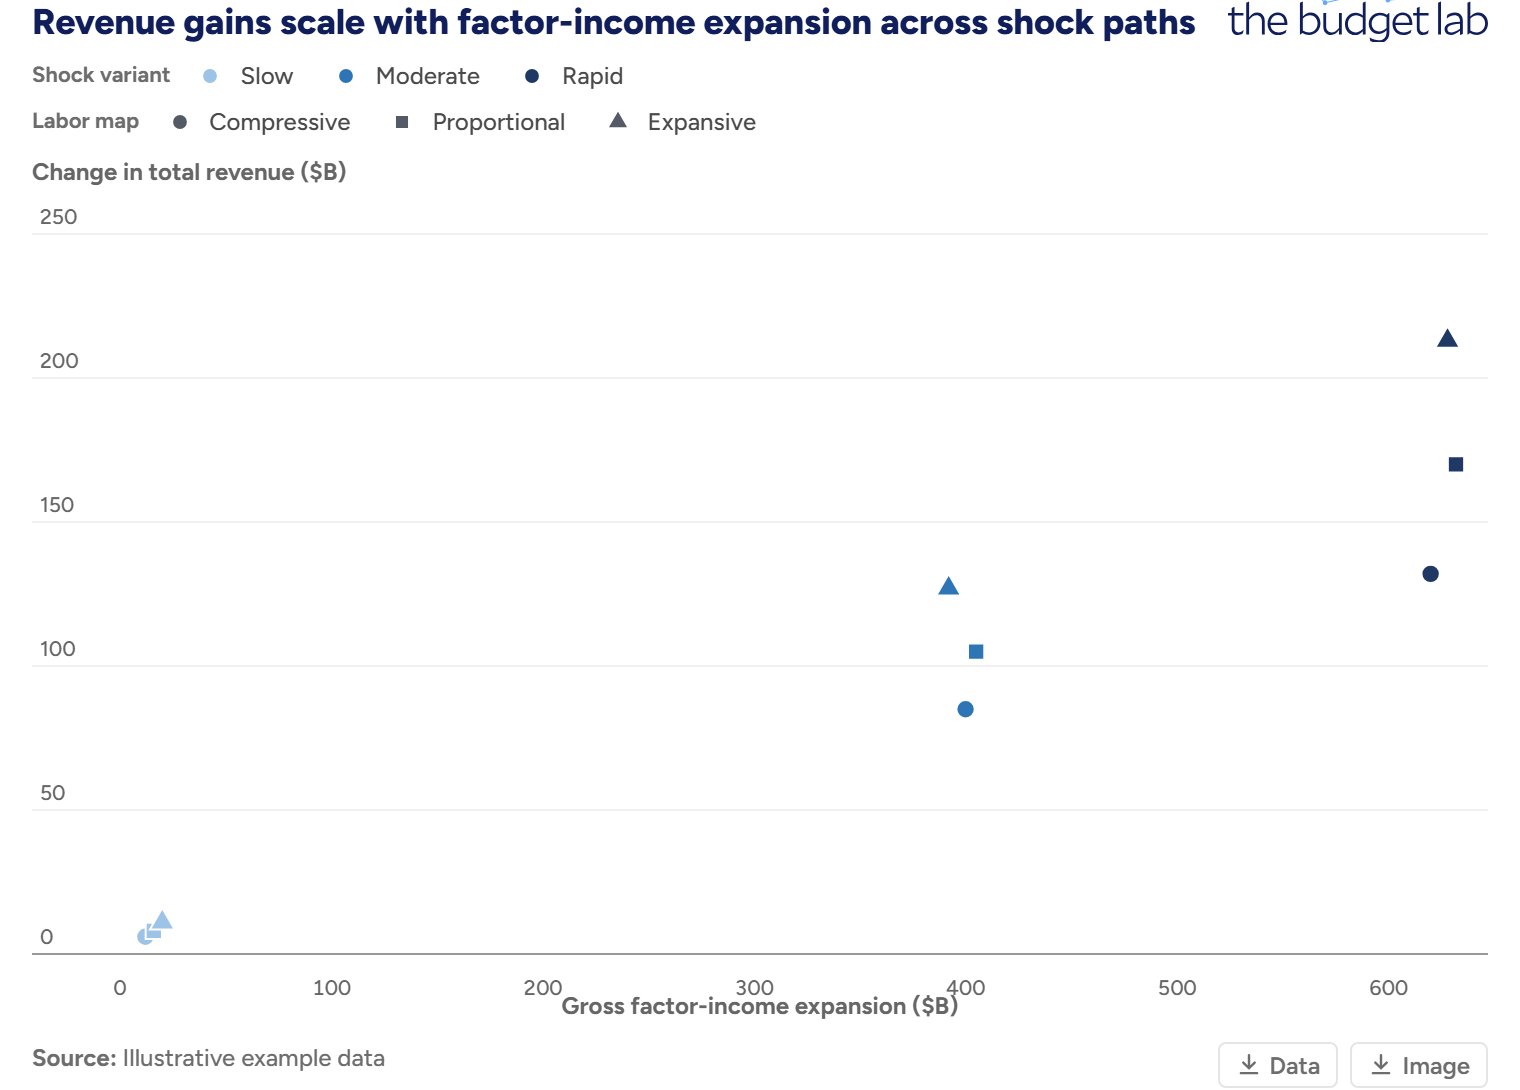
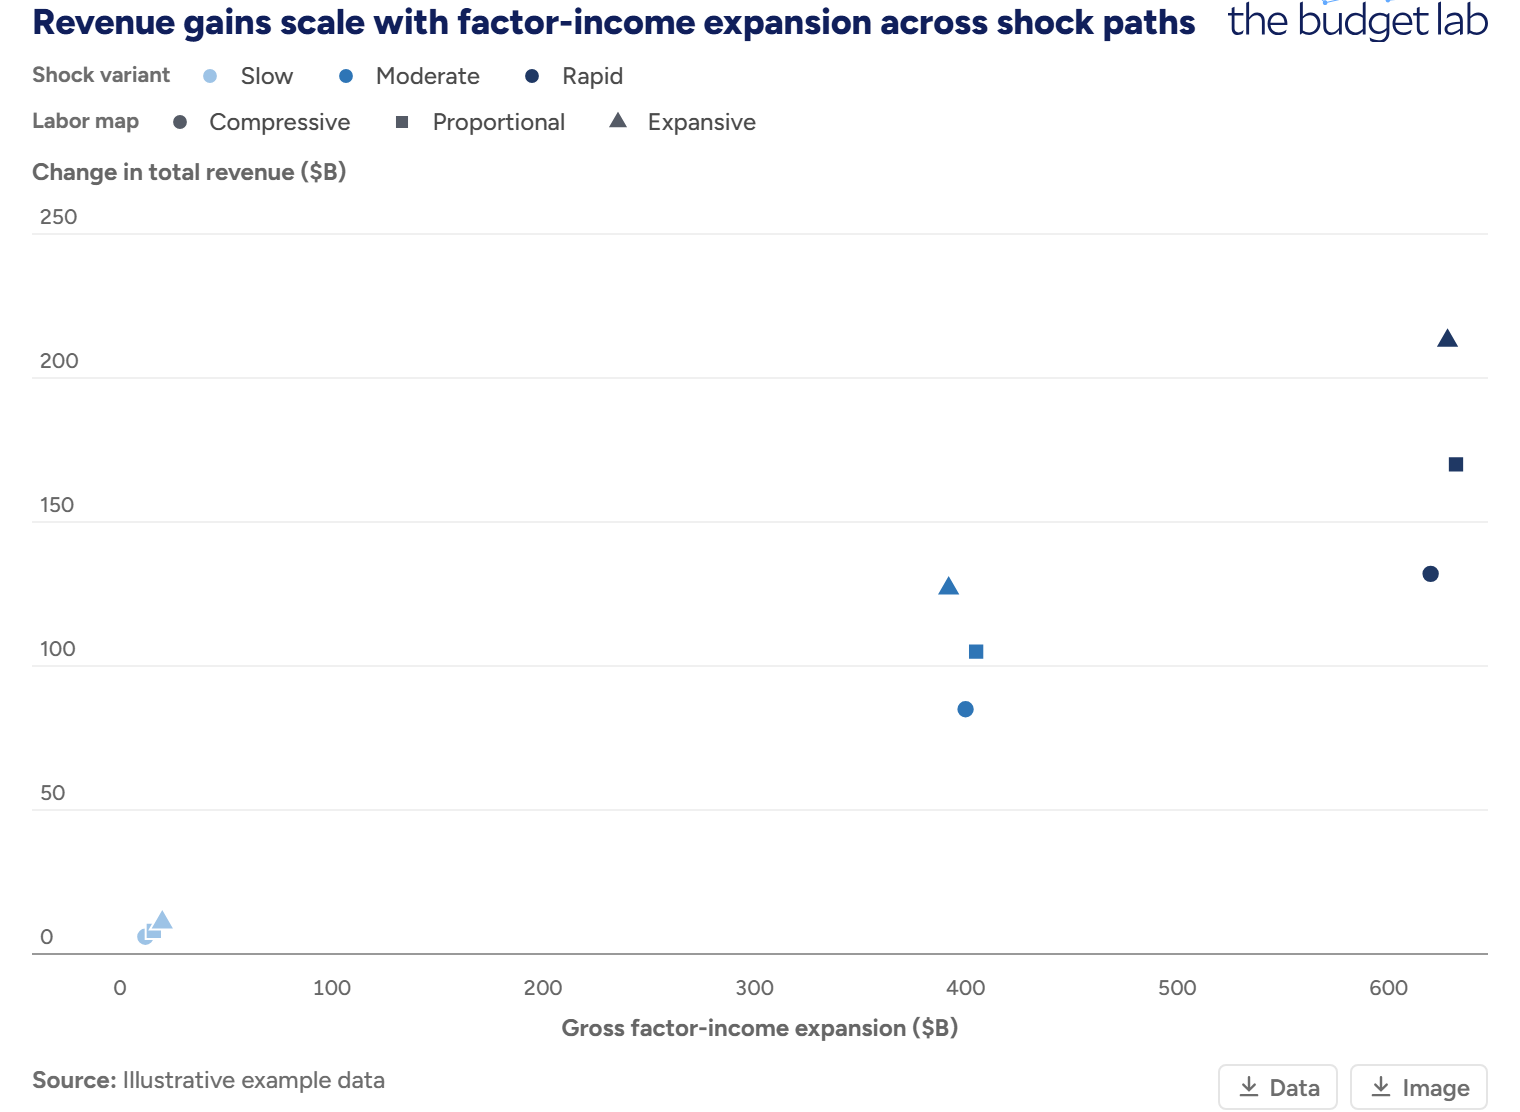
Scatter: more space between x-axis title and tick labels
Tag the card with a chart-type class and nudge the scatter's x-axis title down
(the default -3px was tuned for the temporal axis, too tight under the numeric
axis). Scoped to scatter so other chart types are unaffected.

diff --git a/src/embed/styles.ts b/src/embed/styles.ts
@@ -214,6 +214,11 @@ body {
   color: var(--tbl-text-axis);
   text-align: center;
 }
+/* Scatter's numeric x-axis labels sit tighter to the frame than the temporal axis the default
+   was tuned for, so give the x-axis title a little more breathing room. */
+.chart-scatter .figure-x-axis-title {
+  margin-top: 8px;
+}
 .figure-y-axis-title {
   margin: 0 0 4px;
   font: var(--tw-semi) 12px/1.3 var(--tbl-font-sans);

diff --git a/src/engine/render-live.ts b/src/engine/render-live.ts
@@ -502,7 +502,7 @@ export function mountChart(container: HTMLElement, opts: MountOptions): () => vo
   const doc = container.ownerDocument;
 
   const card = doc.createElement("div");
-  card.className = "figure-card";
+  card.className = `figure-card chart-${spec.chartType}`;
 
   // Header: eyebrow above a title row (title left, logo baseline-aligned top-right); subtitle
   // below. Shared with the figure card via buildFigureHeader so the two never diverge.